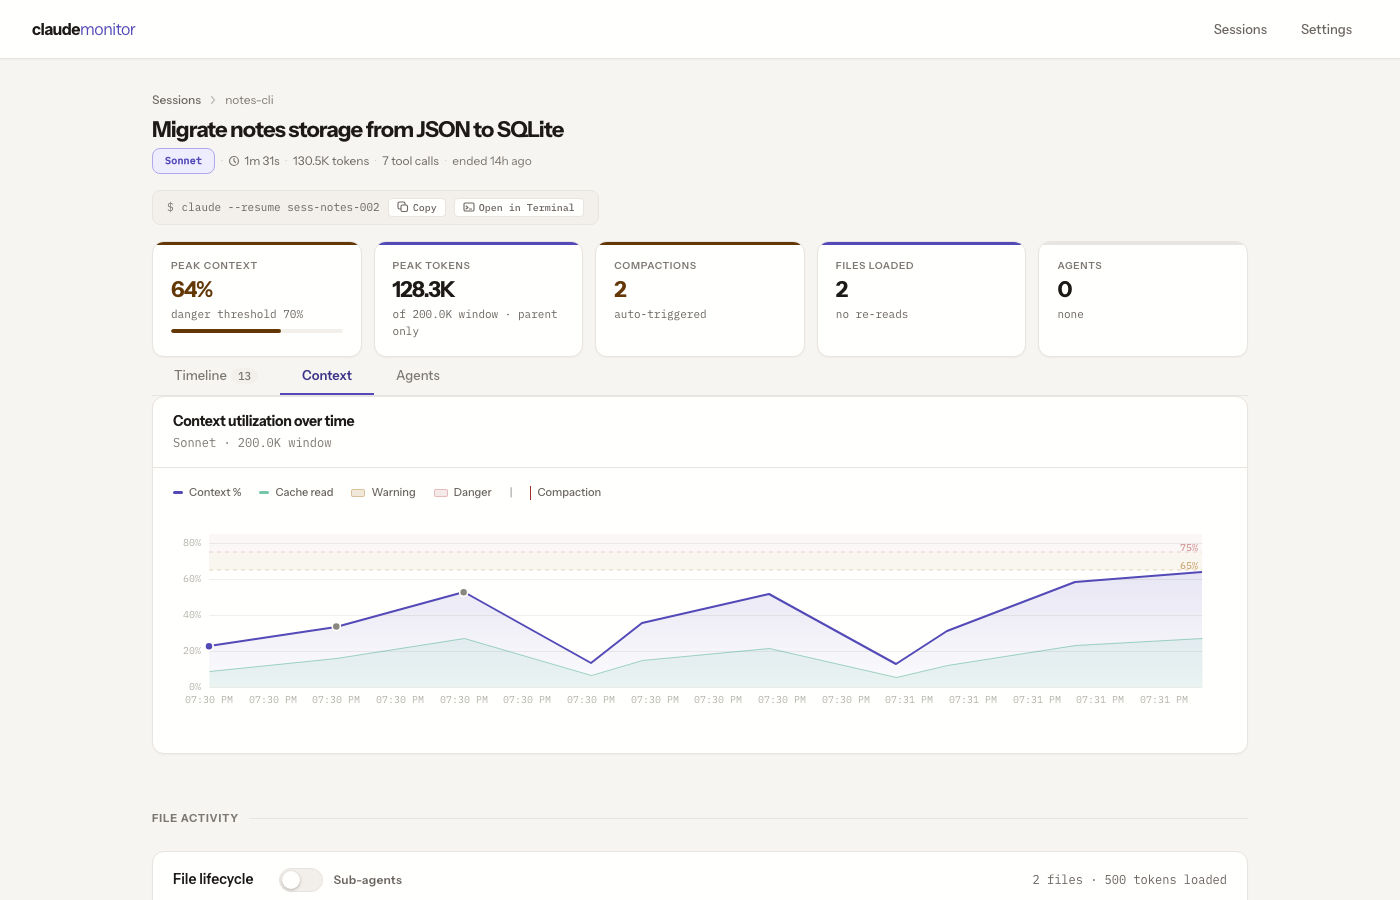
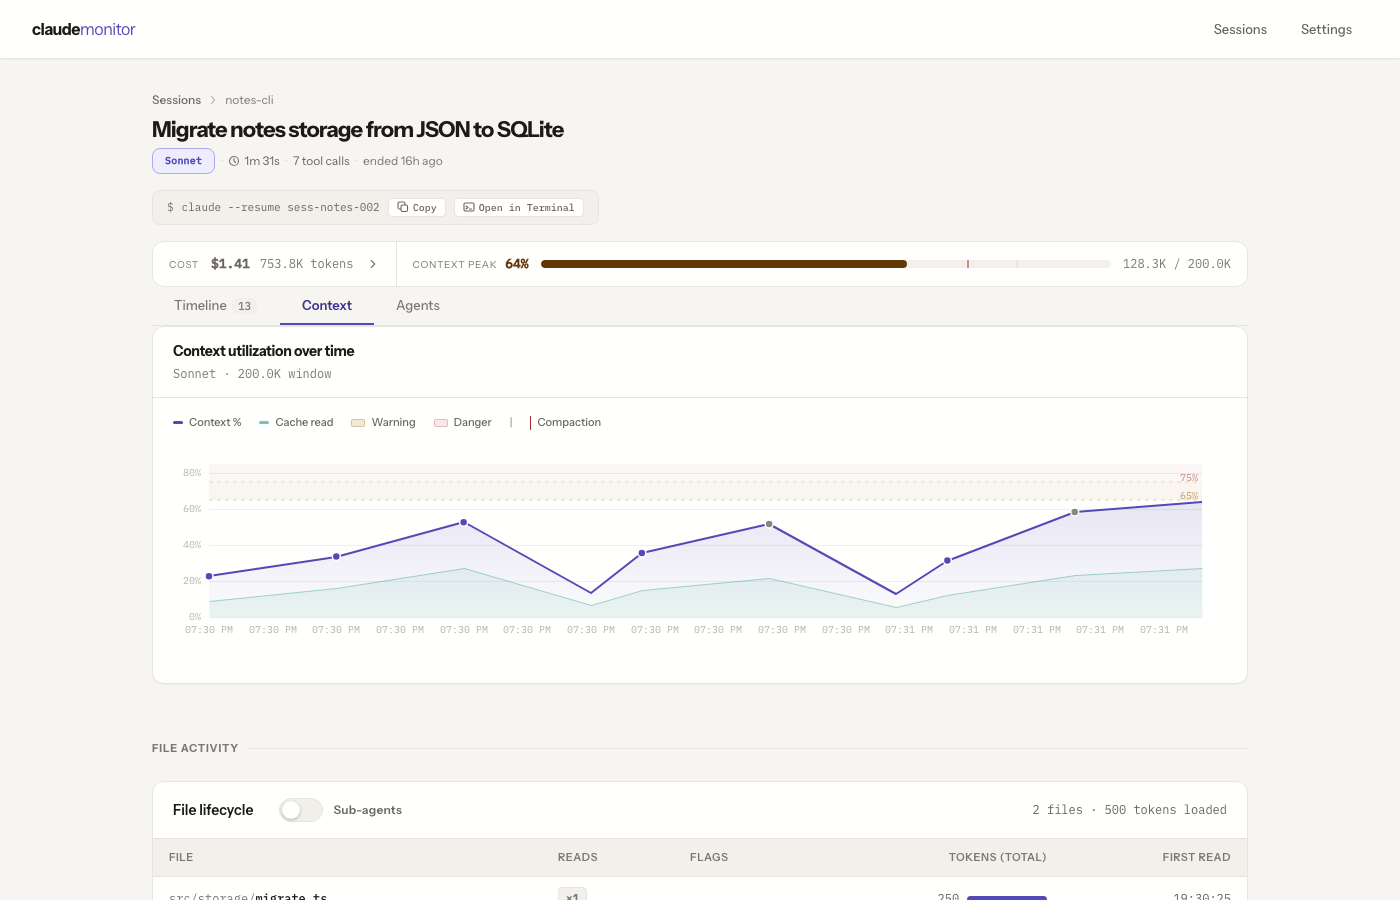
docs: document Token Budget feature and refresh README media
Add a Token Budget feature line to the README (summary bar + expandable
breakdown panel on Session Detail), note the budget panel's URL state in
Shareable URLs, and recapture the hero GIF plus all three session-detail
screenshots to show the new bar in place of the removed five-card stat grid.

Extend the demo walkthrough to expand the cost breakdown on Session Detail,
and bump the hero captured-on annotation to v0.5.2.

diff --git a/README.md b/README.md
@@ -8,9 +8,9 @@
 [![Node](https://img.shields.io/badge/node-%3E%3D20-brightgreen)](https://nodejs.org/)
 
 <!-- hero:start -->
-<!-- hero captured-on: v0.5.0 -->
+<!-- hero captured-on: v0.5.2 -->
 <p align="center">
-  <img src="https://raw.githubusercontent.com/pigorv/claude-monitor/main/docs/images/hero.gif" alt="claude-monitor walkthrough — session list with date-group headers and Sort dropdown, Timeline with Write/Edit full-cards showing code and diffs, Context chart, and 5-agent Gantt" style="max-width: 100%;" />
+  <img src="https://raw.githubusercontent.com/pigorv/claude-monitor/main/docs/images/hero.gif" alt="claude-monitor walkthrough — session list with date-group headers and Sort dropdown, then a session detail page with the Token Budget summary bar above Timeline (Write/Edit full-cards), Context chart, and 5-agent Gantt tabs" style="max-width: 100%;" />
 </p>
 <!-- hero:end -->
 
@@ -52,9 +52,11 @@ npx @pigorv/claude-monitor start
 
 <img src="https://raw.githubusercontent.com/pigorv/claude-monitor/main/docs/images/session-list.png" alt="Session list with recognition-first row layout: bold session titles with project name labels, right-rail telemetry ledger showing timestamps, model pills, duration and estimated cost, color-coded peak-context %, and TODAY / YESTERDAY date-group headers" width="700" />
 
+**Token Budget** — Every session detail page leads with a Token Budget summary bar above the tabs: estimated cost and billed token count on one side, peak context % (color-coded against the model's threshold) on the other. Click the cost to expand a breakdown panel — a parent-vs-sub-agents split (with run count) and a by-token-type breakdown (input, output, cache read, cache write 5m/1h), each showing tokens and cost; empty sections are hidden (no sub-agent split for solo sessions, no zero-usage token types). Cost prices every sub-agent at its own model with cache reads and writes included, and is backfilled across your whole history, so older sessions show a cost without a re-import. The expanded/collapsed state is remembered in the URL.
+
 **Context Pressure** — Interactive token chart (uPlot) with input/output/cache breakdown, model-specific thresholds (Fable 5 sessions are measured against their full 1M-token context window), compaction markers, and drag-to-zoom.
 
-<img src="https://raw.githubusercontent.com/pigorv/claude-monitor/main/docs/images/session-detail-context.png" alt="Session detail page with header stats and a one-click Open in Terminal button, plus a context utilization chart showing two compaction drops and warning/danger threshold zones" width="700" />
+<img src="https://raw.githubusercontent.com/pigorv/claude-monitor/main/docs/images/session-detail-context.png" alt="Session detail page leading with a Token Budget summary bar — cost and billed tokens beside a color-coded context-peak meter — above the Context tab's token utilization chart with warning and danger threshold zones" width="700" />
 
 **Thinking Inspection** — Expandable thinking blocks in the event timeline with infinite scroll. User messages appear in faint purple with an uppercase `USER` label and matching rail dot; assistant messages in neutral white with an `ASSISTANT` label — visually distinct from each other and from tool-call color signals (green=Write, teal=agent, orange=skill). Write and Edit tool calls render as full cards with rationale sourced from the nearest thinking block, a syntax-highlighted diff or content body (Prism.js), and per-card metadata (language · duration · output · cache); collapsible to ~10 lines with in-place expand, with long replies fading at the clip line. Thinking, skill expansions, and tool inputs also render as structured markdown / pretty-printed JSON / labeled `<system-reminder>` blocks — the same way across the Timeline, Agents tab, and sub-agent groups. `AskUserQuestion` prompts render as review cards with three zoom levels, from a collapsed one-line summary up to the full options grid showing exactly which option you picked. Every expanded block has a hover-revealed Copy button that puts the full, untruncated text on the clipboard.
 
@@ -68,7 +70,7 @@ npx @pigorv/claude-monitor start
 
 **Resume in Terminal** (macOS & Windows) — One click opens your terminal in the session's project folder with `claude --resume <id>` already running. macOS uses Terminal.app or iTerm2; Windows auto-detects Windows Terminal, then PowerShell, then `cmd.exe`. Pick your preferred app in Settings — the dropdown is platform-aware, and the button is disabled with a tooltip on unsupported platforms.
 
-**Shareable URLs** — Filters, search, sort, project selection, the active session-detail tab, and the selected agent are all reflected in the URL. Reload preserves the view, links are shareable, and back/forward cycle through tabs naturally.
+**Shareable URLs** — Filters, search, sort, project selection, the active session-detail tab, the selected agent, and the Token Budget breakdown's expanded state are all reflected in the URL. Reload preserves the view, links are shareable, and back/forward cycle through tabs naturally.
 
 **Background Re-import** — Re-import every transcript from Settings without freezing the dashboard. The run happens in the background with a live progress bar — processed-of-total plus a phase label ("Importing transcripts…" then "Compacting database…") — and reattaches to an in-flight run if you reload the page mid-import. Starting a second re-import while one is running is rejected rather than launching a parallel pass, and the database is compacted automatically when the run finishes (search index consolidation + VACUUM) so repeated re-imports don't bloat the file on disk.
 <!-- features:end -->
